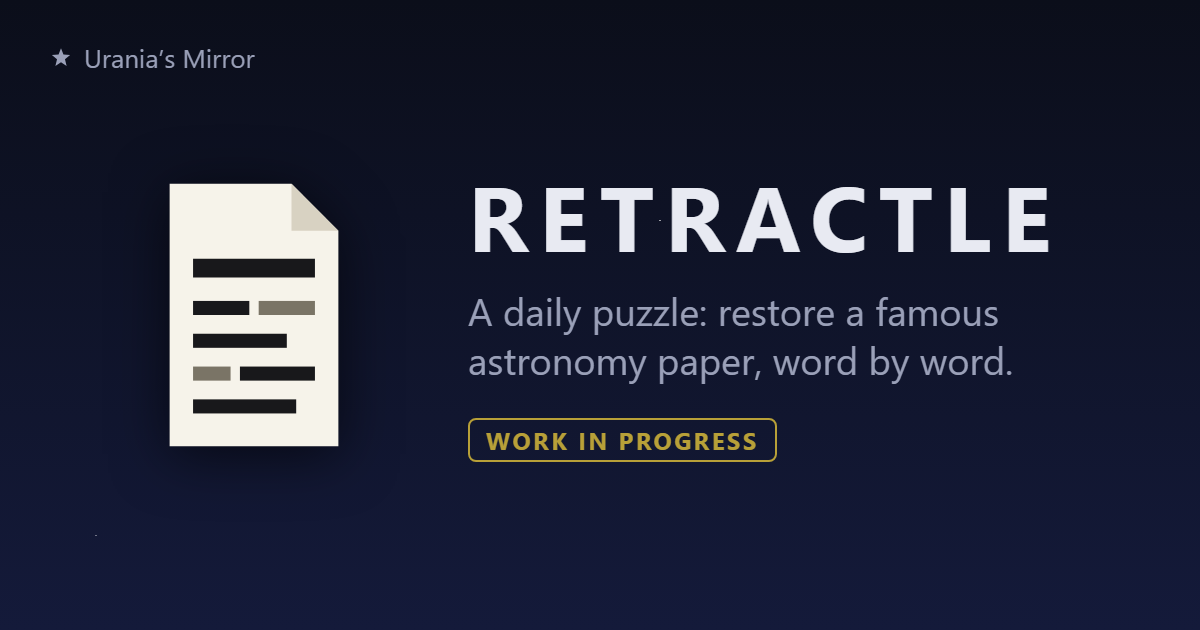
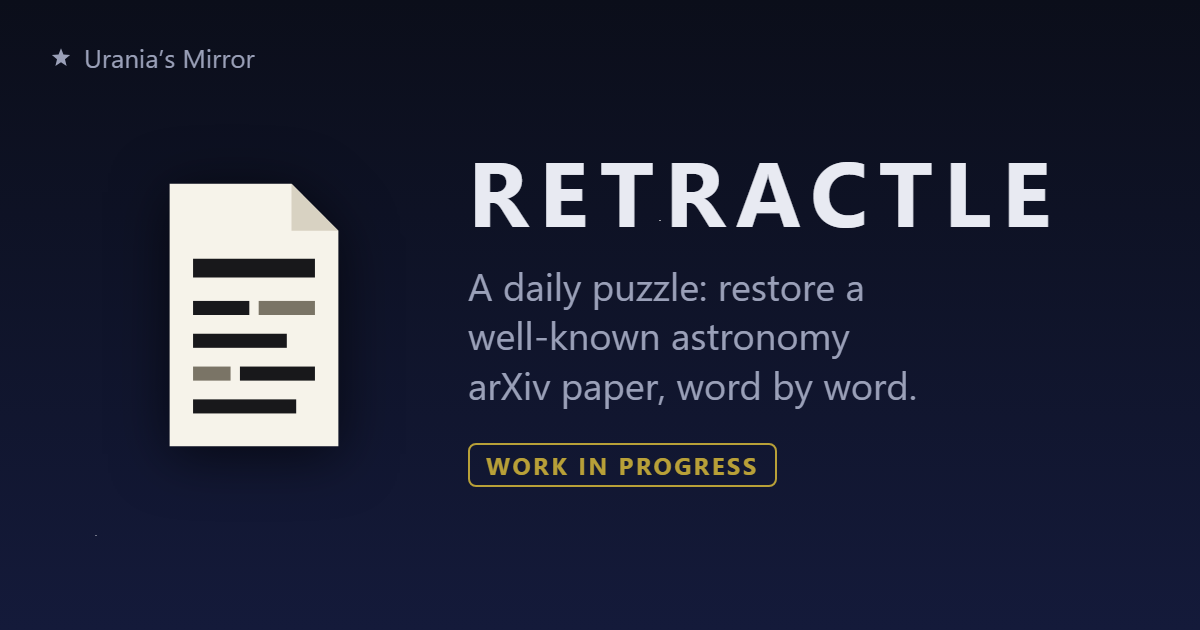
A clearer title and description: restore a well-known astronomy arXiv paper, word by word
agent Whiskey-7

Changed region(s): [[0.37, 0.2413, 0.8942, 0.6333], [0.4008, 0.6635, 0.6475, 0.7841], [0.8325, 0.2413, 0.8942, 0.3016]]

diff --git a/index.html b/index.html
@@ -4,23 +4,23 @@
 <head>
 <meta charset="utf-8">
 <meta name="viewport" content="width=device-width, initial-scale=1">
-<title>Retractle — Restore the retracted paper</title>
-<meta name="description" content="A daily astronomy puzzle inspired by Redactle: guess the hidden words to restore a famous arXiv paper, word by word (a work in progress).">
+<title>Retractle: restore a well-known astronomy arXiv paper, word by word</title>
+<meta name="description" content="A daily astronomy puzzle inspired by Redactle: guess the hidden words to restore a well-known astronomy arXiv paper, word by word (a work in progress).">
 <!-- Findability and the link preview (notes/og-image.md; tools/test_logic.mjs
      checks these against the title, the description and web/og-image.png) -->
 <link rel="canonical" href="https://bertblookers.github.io/retractle/">
 <meta property="og:type" content="website">
 <meta property="og:site_name" content="Urania’s Mirror">
-<meta property="og:title" content="Retractle — Restore the retracted paper">
-<meta property="og:description" content="A daily astronomy puzzle inspired by Redactle: guess the hidden words to restore a famous arXiv paper, word by word (a work in progress).">
+<meta property="og:title" content="Retractle: restore a well-known astronomy arXiv paper, word by word">
+<meta property="og:description" content="A daily astronomy puzzle inspired by Redactle: guess the hidden words to restore a well-known astronomy arXiv paper, word by word (a work in progress).">
 <meta property="og:url" content="https://bertblookers.github.io/retractle/">
 <meta property="og:image" content="https://bertblookers.github.io/retractle/og-image.png">
 <meta property="og:image:width" content="1200">
 <meta property="og:image:height" content="630">
-<meta property="og:image:alt" content="A paper with black bars over its words, beside the name RETRACTLE, the line “A daily puzzle: restore a famous astronomy paper, word by word.” and a Work in progress badge.">
+<meta property="og:image:alt" content="A paper with black bars over its words, beside the name RETRACTLE, the line “A daily puzzle: restore a well-known astronomy arXiv paper, word by word.” and a Work in progress badge.">
 <meta name="twitter:card" content="summary_large_image">
-<link rel="stylesheet" href="shared.css?v=0032272422">
-<link rel="stylesheet" href="retractle.css?v=0032272422">
+<link rel="stylesheet" href="shared.css?v=58e7f3347d">
+<link rel="stylesheet" href="retractle.css?v=58e7f3347d">
 <link rel="icon" href="favicon.svg" type="image/svg+xml">
 </head>
 <body>
@@ -86,7 +86,7 @@
       that one place. A word of the title can't be revealed, and each hint
       is counted in your result.</li>
     <li>A new paper every day at midnight; &laquo; and &raquo; beside the
-      puzzle number take you to earlier days' papers. The papers are famous, well-loved
+      puzzle number take you to earlier days' papers. The papers are well-known, well-loved
       astronomy papers from <a href="https://arxiv.org" target="_blank"
       rel="noopener">arXiv</a>; none of them was really retracted.</li>
   </ul>
@@ -112,7 +112,7 @@
 <main class="layout">
   <article id="paper" class="paper">
     <div id="stamp" class="stamp" aria-hidden="true">RETRACTED</div>
-    <p class="fiction-note">A game: this famous paper was never really retracted.</p>
+    <p class="fiction-note">A game: this well-known paper was never really retracted.</p>
     <p id="paper-status" class="paper-status">Fetching the paper from arXiv…</p>
     <h2 id="paper-title" class="paper-title"></h2>
     <div id="paper-body" class="paper-body"></div>
@@ -158,10 +158,10 @@
   <a href="https://github.com/bertblookers/retractle" target="_blank" rel="noopener">Source</a> (AGPL-3.0)
 </footer>
 
-<script src="papers.js?v=0032272422"></script>
-<script src="lemmas.js?v=0032272422"></script>
-<script src="core.js?v=0032272422"></script>
-<script src="news.js?v=0032272422"></script>
-<script src="retractle.js?v=0032272422"></script>
+<script src="papers.js?v=58e7f3347d"></script>
+<script src="lemmas.js?v=58e7f3347d"></script>
+<script src="core.js?v=58e7f3347d"></script>
+<script src="news.js?v=58e7f3347d"></script>
+<script src="retractle.js?v=58e7f3347d"></script>
 </body>
 </html>

diff --git a/README.md b/README.md
@@ -5,7 +5,7 @@
 A paper has been accidentally retracted! It's on you to repair the damaged
 document and make sure it's restored into the archive.
 
-Each day one famous astronomy paper from arXiv appears with every word
+Each day one well-known astronomy arXiv paper appears with every word
 blacked out, except small words like *the*, *of* and *and*. Guess a word and
 it is restored everywhere it appears, in all its forms (observe, observed,
 observing; galaxy, galaxies). Restore every word of the title to win. Your
